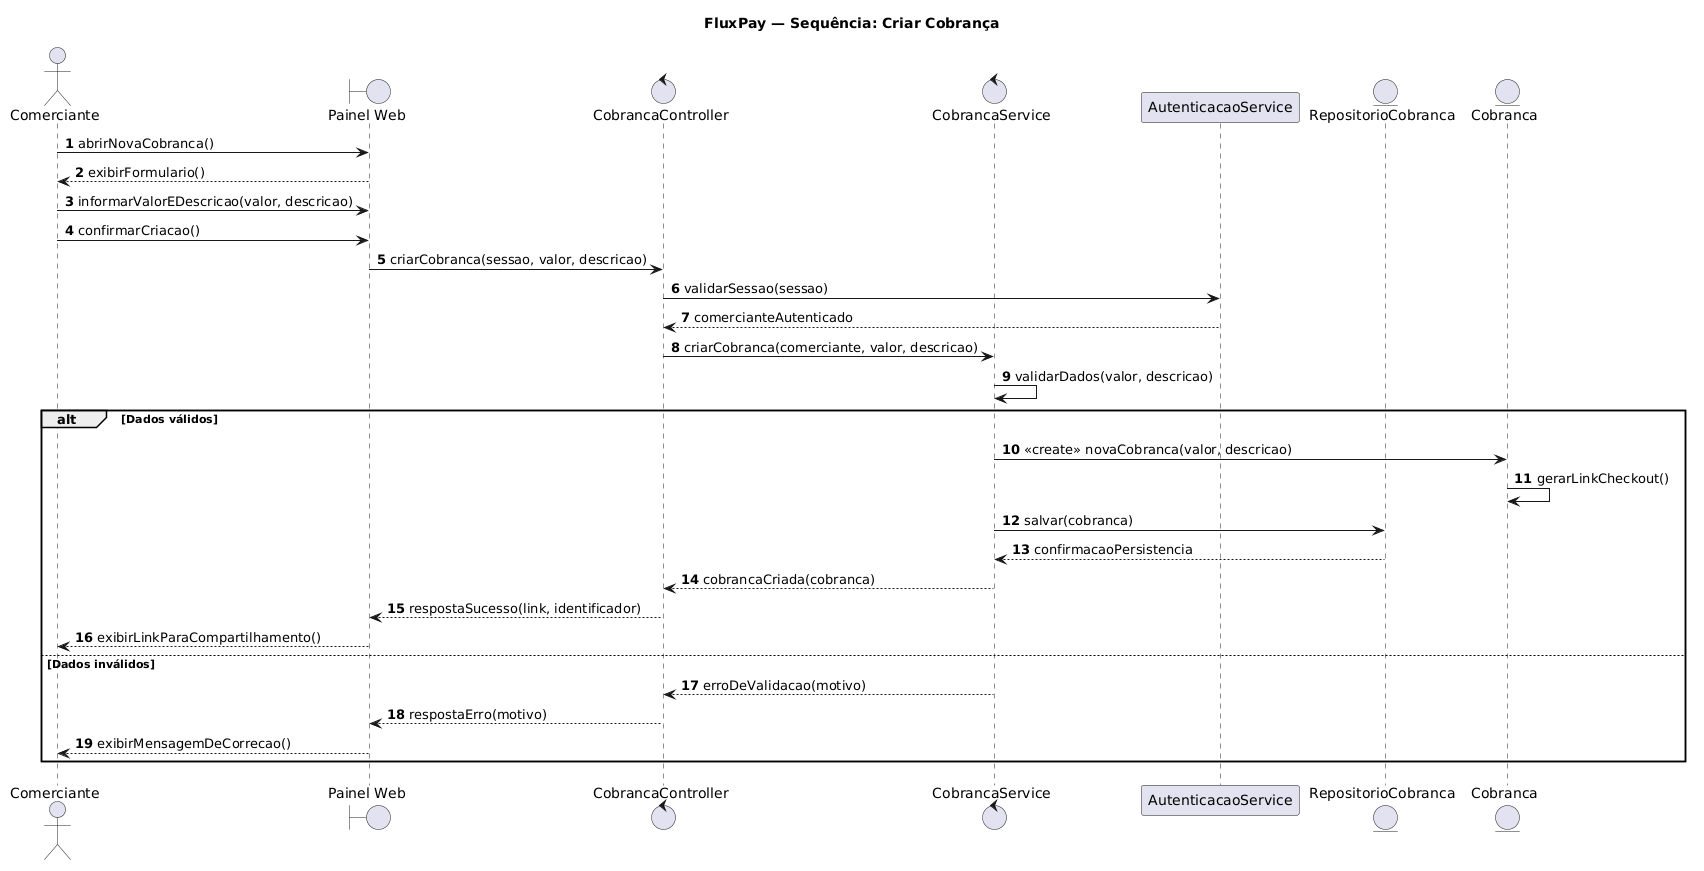
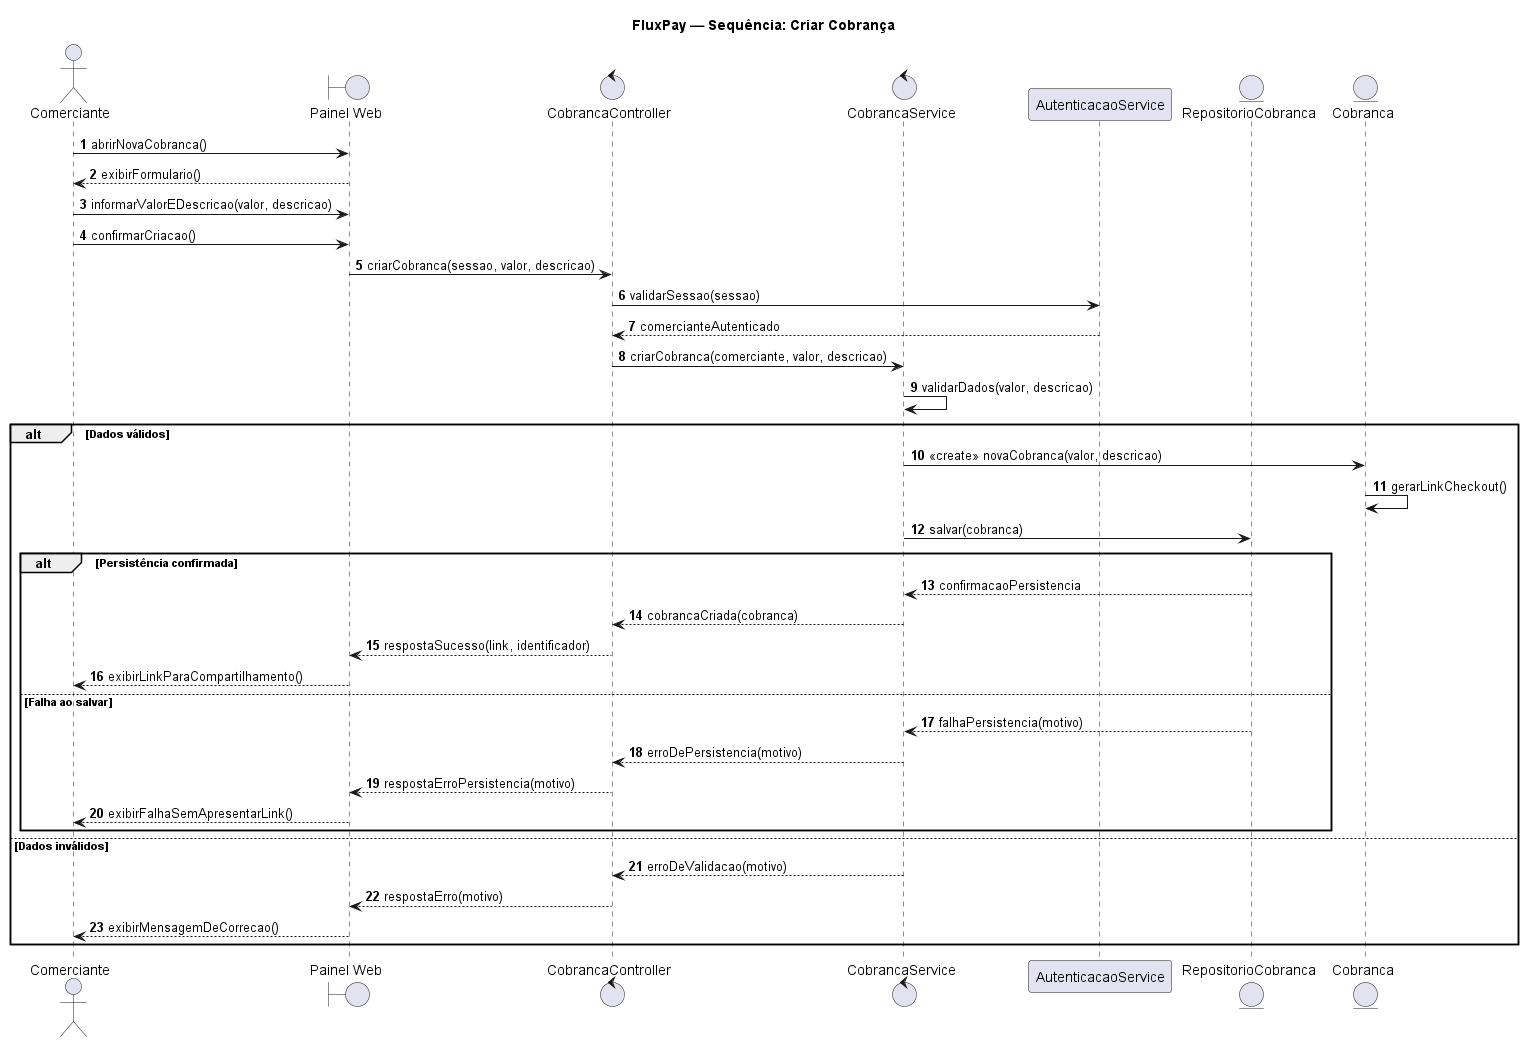
Corrigindo coisas

diff --git a/Projeto PDS/Dossie_Analise_FluxPay.md b/Projeto PDS/Dossie_Analise_FluxPay.md
@@ -104,7 +104,7 @@ Exceções: valor menor ou igual a zero, descrição vazia ou falha de persistê
 Ator principal: Pagador. Ator secundário: Processador de Pagamentos (Simulador).  
 Pré-condições: link correspondente a uma cobrança existente e Aberta.  
 Fluxo resumido: abrir checkout; conferir valor e descrição; escolher Pix ou cartão; informar dados fictícios; confirmar; o sistema cria a transação e a envia ao simulador; registrar a resposta; apresentar o resultado.  
-Alternativas: recusado, pendente ou falha técnica. Nenhuma dessas respostas deve marcar a cobrança como Paga. Somente a aprovação altera a cobrança e permite o comprovante.
+Alternativas: cobrança inexistente, cancelada ou não aberta bloqueia a tentativa; dados fictícios inválidos exigem correção antes de criar uma transação; resultados recusado, pendente ou falha técnica são registrados sem marcar a cobrança como Paga. Somente a aprovação altera a cobrança e permite o comprovante.
 
 **Outros casos de uso:** autenticar-se, consultar cobranças e transações, visualizar detalhes, acessar checkout, validar cobrança, solicitar processamento, registrar resultado, visualizar comprovante e cancelar cobrança.
 
@@ -148,6 +148,12 @@ Alternativas: recusado, pendente ou falha técnica. Nenhuma dessas respostas dev
 
 Os atributos são privados e as operações públicas. Valores monetários usam BigDecimal para evitar imprecisão de ponto flutuante. Identificadores usam UUID e datas/horários usam LocalDateTime. Os enumeradores StatusCobranca, StatusTransacao e FormaPagamento restringem os valores possíveis.
 
+### 5.4 Justificativa da ausência de herança
+
+A possibilidade de utilizar herança foi avaliada, mas o modelo não apresenta uma relação natural de generalização entre as classes de domínio. Comerciante, Cobranca, Transacao e Comprovante representam conceitos diferentes e possuem responsabilidades próprias; não existe uma classe mais geral da qual as demais sejam especializações do tipo “é um”. Criar uma superclasse apenas para agrupar essas entidades acrescentaria complexidade sem reaproveitamento real de atributos ou comportamentos.
+
+As diferenças de meio de pagamento e de situação são representadas por FormaPagamento, StatusCobranca e StatusTransacao, que são enumeradores. Os papéis de comerciante e pagador são atores do sistema e não justificam, por si só, uma hierarquia de classes. SimuladorProcessador implementa a interface ProcessadorPagamento: essa realização de interface permite substituir a implementação do processamento e não representa herança entre classes de domínio. Portanto, a ausência de herança é uma decisão consciente, baseada nas relações efetivamente identificadas no problema.
+
 **Diagrama:** [Fonte PlantUML](Semana%2003%20-%20Estrutura%20e%20Diagrama%20de%20Classes/Diagrama_de_Classes.puml) | [Imagem PNG](Semana%2003%20-%20Estrutura%20e%20Diagrama%20de%20Classes/Diagrama_de_Classes.png)
 
 ![Diagrama de Classes](Semana%2003%20-%20Estrutura%20e%20Diagrama%20de%20Classes/Diagrama_de_Classes.png)  
@@ -163,11 +169,10 @@ Os atributos são privados e as operações públicas. Valores monetários usam 
 2. Informa valor e descrição e confirma.
 3. O controlador valida a sessão com o serviço de autenticação.
 4. O serviço de cobrança valida os dados.
-5. Uma cobrança é criada e recebe identificador e link.
-6. O repositório salva a cobrança.
-7. Após a confirmação da persistência, o painel apresenta o link ao comerciante.
-
-Se os dados forem inválidos ou ocorrer falha ao salvar, o sistema apresenta erro e não afirma que a cobrança foi criada.
+5. Com dados válidos, uma cobrança é criada e recebe identificador e link.
+6. O repositório tenta salvar a cobrança.
+7. Se a persistência for confirmada, o painel apresenta o link ao comerciante.
+8. Se os dados forem inválidos ou ocorrer falha ao salvar, o sistema apresenta a mensagem correspondente e não afirma que a cobrança foi criada nem apresenta o link como válido.
 
 **Diagrama:** [Fonte PlantUML — Criar Cobrança](Semana%2004%20-%20Comportamento%20e%20Estados/Diagrama_Sequencia_Criar_Cobranca.puml) | [Imagem PNG](Semana%2004%20-%20Comportamento%20e%20Estados/Diagrama_Sequencia_Criar_Cobranca.png)
 
@@ -176,14 +181,17 @@ Se os dados forem inválidos ou ocorrer falha ao salvar, o sistema apresenta err
 ### 6.2 Sequência — Processar pagamento
 
 1. O pagador abre o link e o sistema localiza a cobrança.
-2. O checkout apresenta valor e descrição.
-3. O pagador seleciona Pix ou cartão e confirma com dados fictícios.
-4. O sistema confirma que a cobrança está Aberta e cria uma Transacao.
-5. A transação é enviada ao ProcessadorPagamento, implementado pelo simulador.
-6. O sistema registra o resultado retornado.
-7. Se aprovado, atualiza a cobrança para Paga e solicita o comprovante.
-8. Se recusado ou pendente, registra o status sem marcar a cobrança como Paga.
-9. Se ocorrer falha técnica, registra a falha e informa que a tentativa não foi concluída.
+2. Antes de exibir o checkout, o sistema verifica se a cobrança existe e está Aberta. Caso esteja ausente, cancelada ou em outro estado, bloqueia a tentativa e não cria uma transação.
+3. Quando a cobrança está disponível, o checkout apresenta valor e descrição.
+4. O pagador seleciona Pix ou cartão e confirma com dados fictícios.
+5. O serviço revalida se a cobrança continua Aberta.
+6. O serviço valida os dados fictícios de teste.
+7. Se a cobrança continuar Aberta e os dados forem válidos, o sistema cria uma Transacao e a envia ao ProcessadorPagamento, implementado pelo simulador.
+8. O sistema registra o resultado retornado.
+9. Para resultado aprovado, atualiza a cobrança para Paga e solicita o comprovante.
+10. Para resultado recusado ou pendente, registra o status sem marcar a cobrança como Paga.
+11. Se ocorrer falha técnica, registra a falha e informa que a tentativa não foi concluída.
+12. Se a cobrança deixar de estar Aberta ou os dados fictícios forem inválidos, o sistema bloqueia o processamento e informa o motivo, sem criar uma transação.
 
 **Diagrama:** [Fonte PlantUML — Processar Pagamento](Semana%2004%20-%20Comportamento%20e%20Estados/Diagrama_Sequencia_Processar_Pagamento.puml) | [Imagem PNG](Semana%2004%20-%20Comportamento%20e%20Estados/Diagrama_Sequencia_Processar_Pagamento.png)
 

diff --git a/Projeto PDS/Semana 04 - Comportamento e Estados/Explicacao dos Fluxos e Estados.md b/Projeto PDS/Semana 04 - Comportamento e Estados/Explicacao dos Fluxos e Estados.md
@@ -10,13 +10,13 @@ Os diagramas desta semana mostram como os participantes colaboram para executar 
 
 O comerciante preenche o formulário no Painel Web. O controlador recebe a solicitação e encaminha a operação ao serviço de cobrança. O serviço valida a sessão e os dados, cria a entidade Cobranca, gera identificador e link e solicita a persistência. Somente após a confirmação do repositório o painel apresenta o link.
 
-O fragmento `alt` distingue dados válidos de dados inválidos. Assim, não existe cobrança persistida quando o valor ou a descrição não passam pela validação.
+O primeiro fragmento `alt` distingue dados válidos de dados inválidos. Quando os dados são válidos, o serviço cria a cobrança e solicita sua persistência. Um segundo `alt` diferencia a confirmação do repositório de uma falha ao salvar. O link só é apresentado ao comerciante depois da confirmação; em caso de falha de persistência, o sistema informa o erro e não apresenta a cobrança como criada. Quando os dados são inválidos, nenhuma cobrança é persistida.
 
 ## 3. Diagrama de sequência — Processar pagamento
 
-O pagador abre o link e o checkout solicita os dados da cobrança. Depois da seleção do método de pagamento, o serviço valida se a cobrança está Aberta e cria uma Transacao. A solicitação é encaminhada ao contrato ProcessadorPagamento, implementado nesta atividade pelo simulador.
+O pagador abre o link e o sistema localiza a cobrança. Antes de apresentar o checkout, o serviço verifica se ela existe e permanece Aberta. Se a cobrança estiver ausente, cancelada ou em outro estado, o sistema bloqueia o acesso ao fluxo de pagamento e não cria uma transação. Após a seleção do método, o serviço verifica novamente se a cobrança continua Aberta e valida os dados fictícios. Se a cobrança tiver mudado de estado ou os dados não atenderem aos requisitos mínimos, o processamento é bloqueado antes da criação de uma transação.
 
-O fragmento `alt` apresenta quatro respostas possíveis: aprovada, recusada, pendente e falha técnica. Somente a aprovação altera a cobrança para Paga e permite gerar o comprovante. Recusa, pendência e falha técnica ficam registradas, mas não devem ser exibidas como pagamento concluído.
+Com a cobrança ainda Aberta e os dados válidos, o serviço cria uma Transacao e encaminha a solicitação ao contrato ProcessadorPagamento, implementado nesta atividade pelo simulador. O fragmento `alt` apresenta quatro respostas possíveis: aprovada, recusada, pendente e falha técnica. Somente a aprovação altera a cobrança para Paga e permite gerar o comprovante. Recusa, pendência e falha técnica ficam registradas, mas não devem ser exibidas como pagamento concluído.
 
 ## 4. Diagrama de estados — Cobrança
 

diff --git a/Projeto PDS/Semana 03 - Estrutura e Diagrama de Classes/Descricao da Estrutura.md b/Projeto PDS/Semana 03 - Estrutura e Diagrama de Classes/Descricao da Estrutura.md
@@ -45,3 +45,11 @@ Os enumeradores **StatusCobranca**, **StatusTransacao** e **FormaPagamento** lim
 O diagrama diferencia cobrança de transação: a cobrança é a solicitação comercial, enquanto a transação é uma tentativa concreta de pagamento. Assim, uma cobrança recusada pode continuar aberta sem ser confundida com uma cobrança paga.
 
 A classe de simulação não representa uma integração bancária real. Não existe armazenamento de número real de cartão, CVV ou credenciais bancárias. Os dados de pagamento são fictícios e servem apenas para demonstrar a modelagem.
+
+## 7. Justificativa da ausência de herança
+
+A possibilidade de utilizar herança foi avaliada, mas o modelo não apresenta uma relação natural de generalização entre as classes de domínio. **Comerciante**, **Cobranca**, **Transacao** e **Comprovante** representam conceitos diferentes e possuem responsabilidades próprias; não existe uma classe mais geral da qual as demais sejam especializações do tipo “é um”. Criar uma superclasse apenas para agrupar essas entidades acrescentaria complexidade sem reaproveitamento real de atributos ou comportamentos.
+
+As diferenças de meio de pagamento e de situação são representadas por **FormaPagamento**, **StatusCobranca** e **StatusTransacao**, que são enumeradores, pois restringem valores possíveis e não representam famílias de objetos com comportamentos especializados. Da mesma forma, os papéis de comerciante e pagador são atores do sistema e não justificam, por si só, uma hierarquia de classes.
+
+Há, contudo, uma abstração por contrato: **SimuladorProcessador** implementa a interface **ProcessadorPagamento**. Essa relação é uma realização de interface, que permite substituir a implementação do processamento sem introduzir herança entre as classes de domínio. Portanto, a ausência de herança é uma decisão consciente, baseada nas responsabilidades e relações efetivamente identificadas no problema.

diff --git a/Projeto PDS/Semana 02 - Requisitos e Casos de Uso/UC02 - Processar Pagamento.md b/Projeto PDS/Semana 02 - Requisitos e Casos de Uso/UC02 - Processar Pagamento.md
@@ -15,7 +15,7 @@
 ## Pós-condições
 
 - Uma transação fica associada à cobrança.
-- O resultado é registrado como **Aprovado**, **Recusado** ou **Pendente**.
+- O resultado é registrado como **Aprovado**, **Recusado**, **Pendente** ou **Falha Técnica**.
 - A cobrança passa para **Paga** somente quando o resultado é aprovado.
 - Para resultado aprovado, um comprovante demonstrativo pode ser visualizado.
 
@@ -32,7 +32,7 @@
 9. O sistema envia a solicitação ao Processador de Pagamentos (Simulador).
 10. O simulador avalia o cenário de teste e retorna um resultado.
 11. O sistema registra o resultado e os dados de retorno.
-12. Se aprovado, o sistema marca a transação como **Aprovada** e a cobrança como **Paga**.
+12. O sistema registra a transação como **Aprovada** e marca a cobrança como **Paga**.
 13. O sistema apresenta a confirmação ao pagador.
 14. O sistema disponibiliza o comprovante demonstrativo.
 
@@ -54,6 +54,11 @@
 1. No passo 2 ou 3, o sistema não encontra a cobrança ou identifica status diferente de Aberta.
 2. O sistema bloqueia a tentativa e apresenta uma mensagem adequada.
 3. Nenhuma transação é processada.
+
+**FA04 — Dados fictícios inválidos**
+1. No passo 8, o sistema identifica que os dados fictícios não atendem aos requisitos mínimos de validação.
+2. O sistema informa o campo que precisa ser corrigido e mantém o checkout disponível.
+3. Nenhuma transação é criada ou enviada ao simulador até a correção dos dados.
 
 **FE01 — Indisponibilidade do simulador**
 1. No passo 9 ou 10, o simulador não responde.
